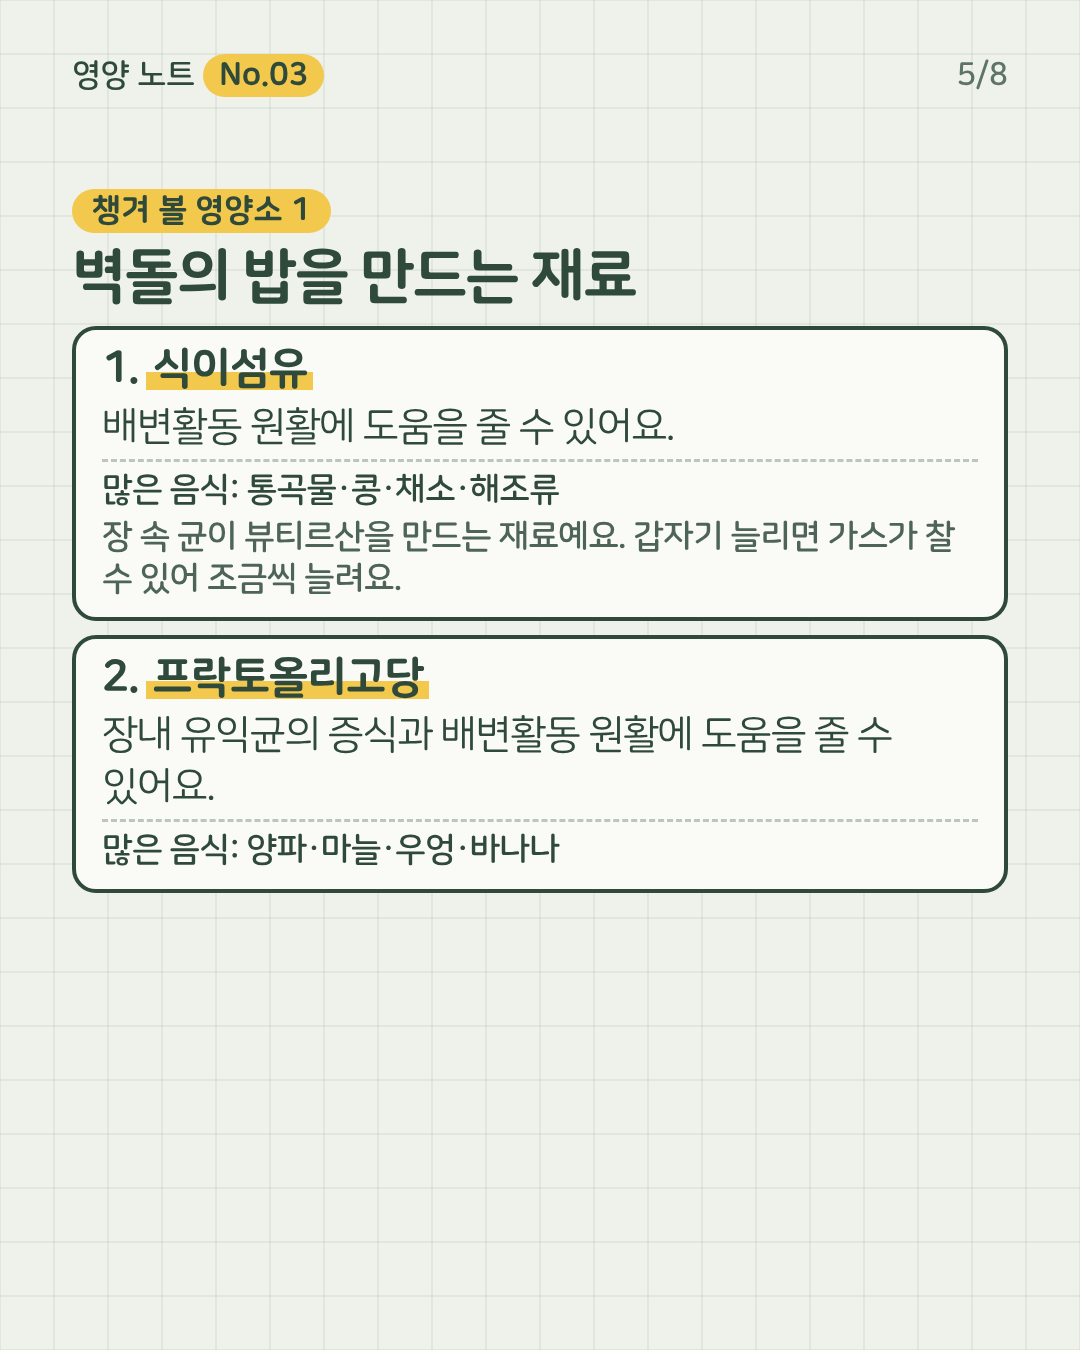
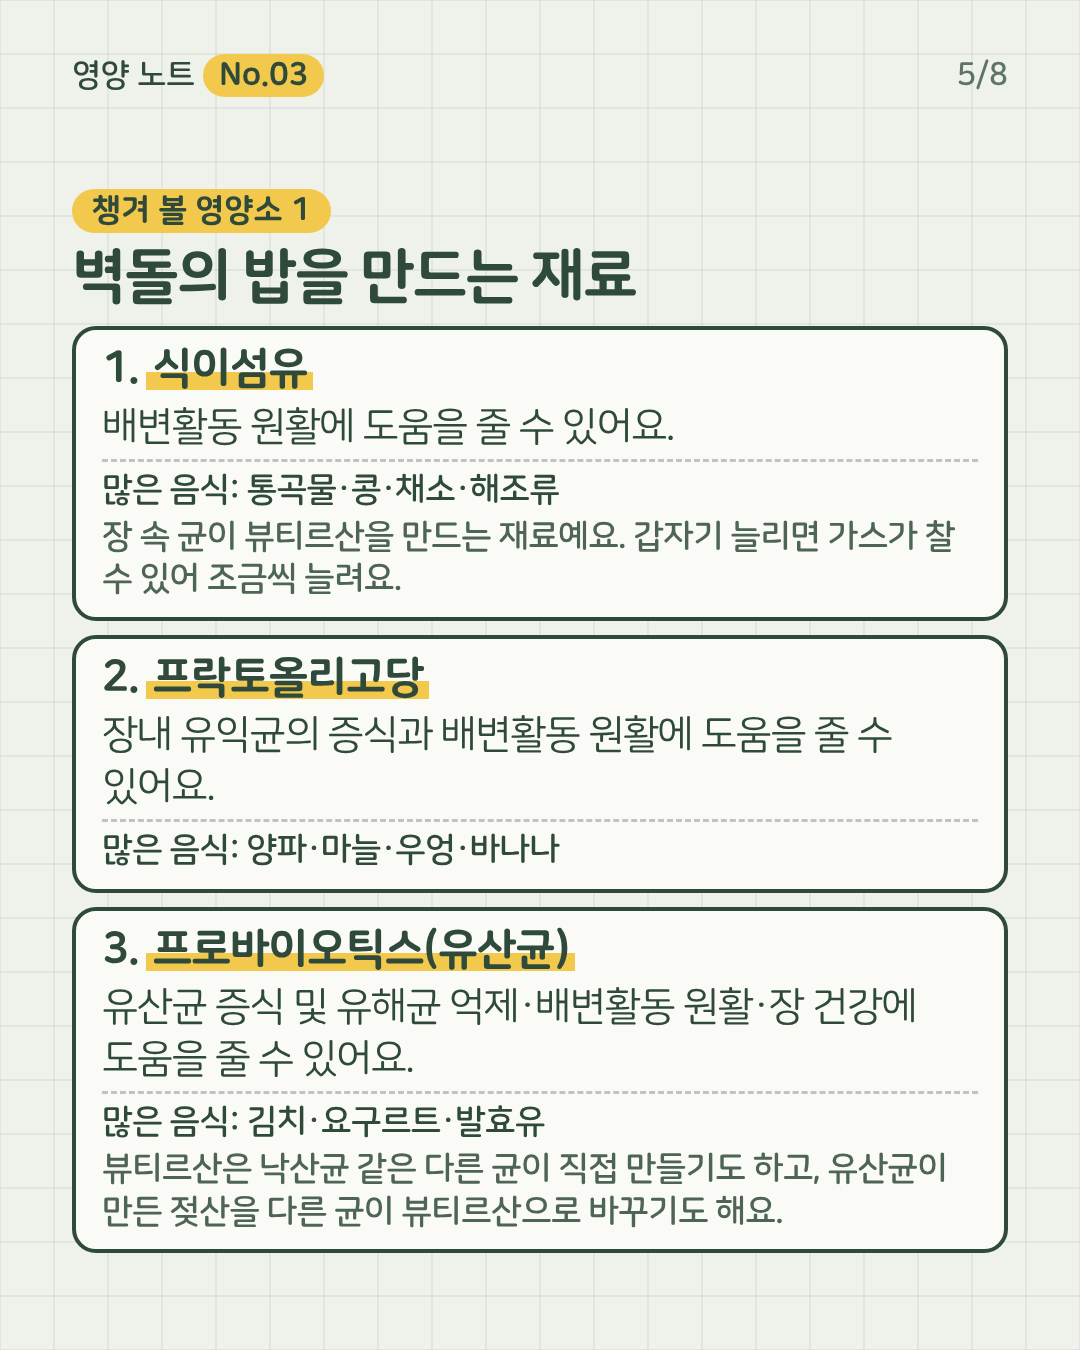
영양노트 No.03: 프로바이오틱스 추가 (회장님 '유산균은 왜 안넣어?', 검수 반영)
Claude-Session: https://claude.ai/code/session_01Ethqw5r7mmktrKzGmpSNVy

Changed region(s): [[0.0611, 0.6533, 0.9472, 0.9333]]

diff --git a/company/초안/영양노트/No03-카드/cards.html b/company/초안/영양노트/No03-카드/cards.html
@@ -320,6 +320,13 @@ svg .t{fill:var(--ink);font-family:"NSR";font-weight:700}
       <p class="fn">장내 유익균의 증식과 배변활동 원활에 도움을 줄 수 있어요.</p>
       <p class="fd">많은 음식: 양파·마늘·우엉·바나나</p>
     </div>
+
+    <div class="nu">
+      <p class="nm"><span class="num">3.</span><span class="hl">프로바이오틱스(유산균)</span></p>
+      <p class="fn">유산균 증식 및 유해균 억제·배변활동 원활·장 건강에 도움을 줄 수 있어요.</p>
+      <p class="fd">많은 음식: 김치·요구르트·발효유</p>
+      <p class="bx">뷰티르산은 낙산균 같은 다른 균이 직접 만들기도 하고, 유산균이 만든 젖산을 다른 균이 뷰티르산으로 바꾸기도 해요.</p>
+    </div>
   </div>
 </section>
 
@@ -331,19 +338,19 @@ svg .t{fill:var(--ink);font-family:"NSR";font-weight:700}
     <h2>벽돌과 이음매의 재료</h2>
 
     <div class="nu">
-      <p class="nm"><span class="num">3.</span><span class="hl">단백질</span></p>
+      <p class="nm"><span class="num">4.</span><span class="hl">단백질</span></p>
       <p class="fn">근육, 결합조직 등 신체조직의 구성성분이에요.</p>
       <p class="fd">많은 음식: 생선·달걀·두부·살코기</p>
     </div>
 
     <div class="nu">
-      <p class="nm"><span class="num">4.</span><span class="hl">아연</span></p>
+      <p class="nm"><span class="num">5.</span><span class="hl">아연</span></p>
       <p class="fn">정상적인 세포분열에 필요해요. 정상적인 면역기능에 필요해요.</p>
       <p class="fd">많은 음식: 굴·소고기·콩·견과</p>
     </div>
 
     <div class="nu">
-      <p class="nm"><span class="num">5.</span><span class="hl">비타민A (베타카로틴)</span></p>
+      <p class="nm"><span class="num">6.</span><span class="hl">비타민A (베타카로틴)</span></p>
       <p class="fn">피부와 점막을 형성하고 기능을 유지하는 데 필요해요. 상피세포의 성장과 발달에 필요해요.</p>
       <p class="key">베타카로틴으로 챙기면 좋아요. 몸이 필요한 만큼 비타민A로 바꿔서 써요. 그래서 비타민A가 몸에 쌓일 걱정이 적어요.</p>
       <p class="fd">많은 음식: 당근·단호박·시금치·고구마 (베타카로틴), 달걀노른자</p>
